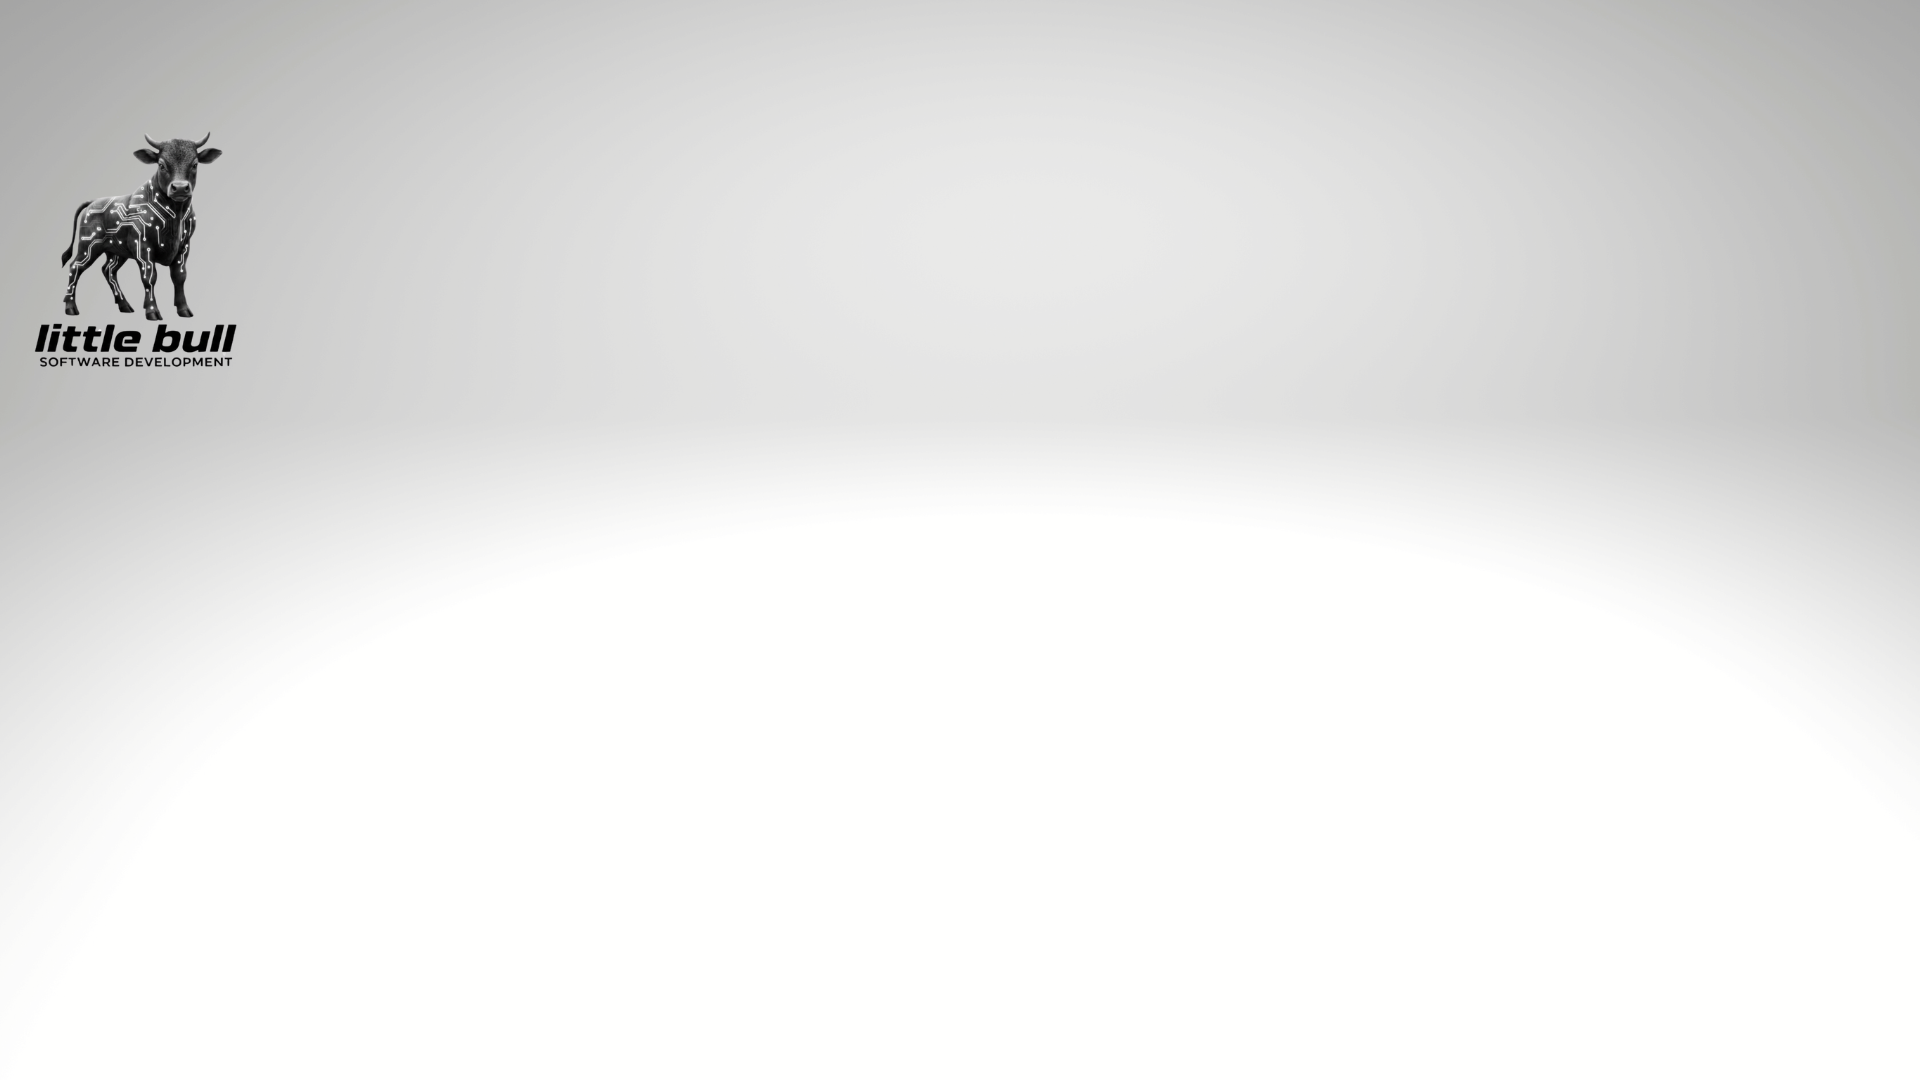
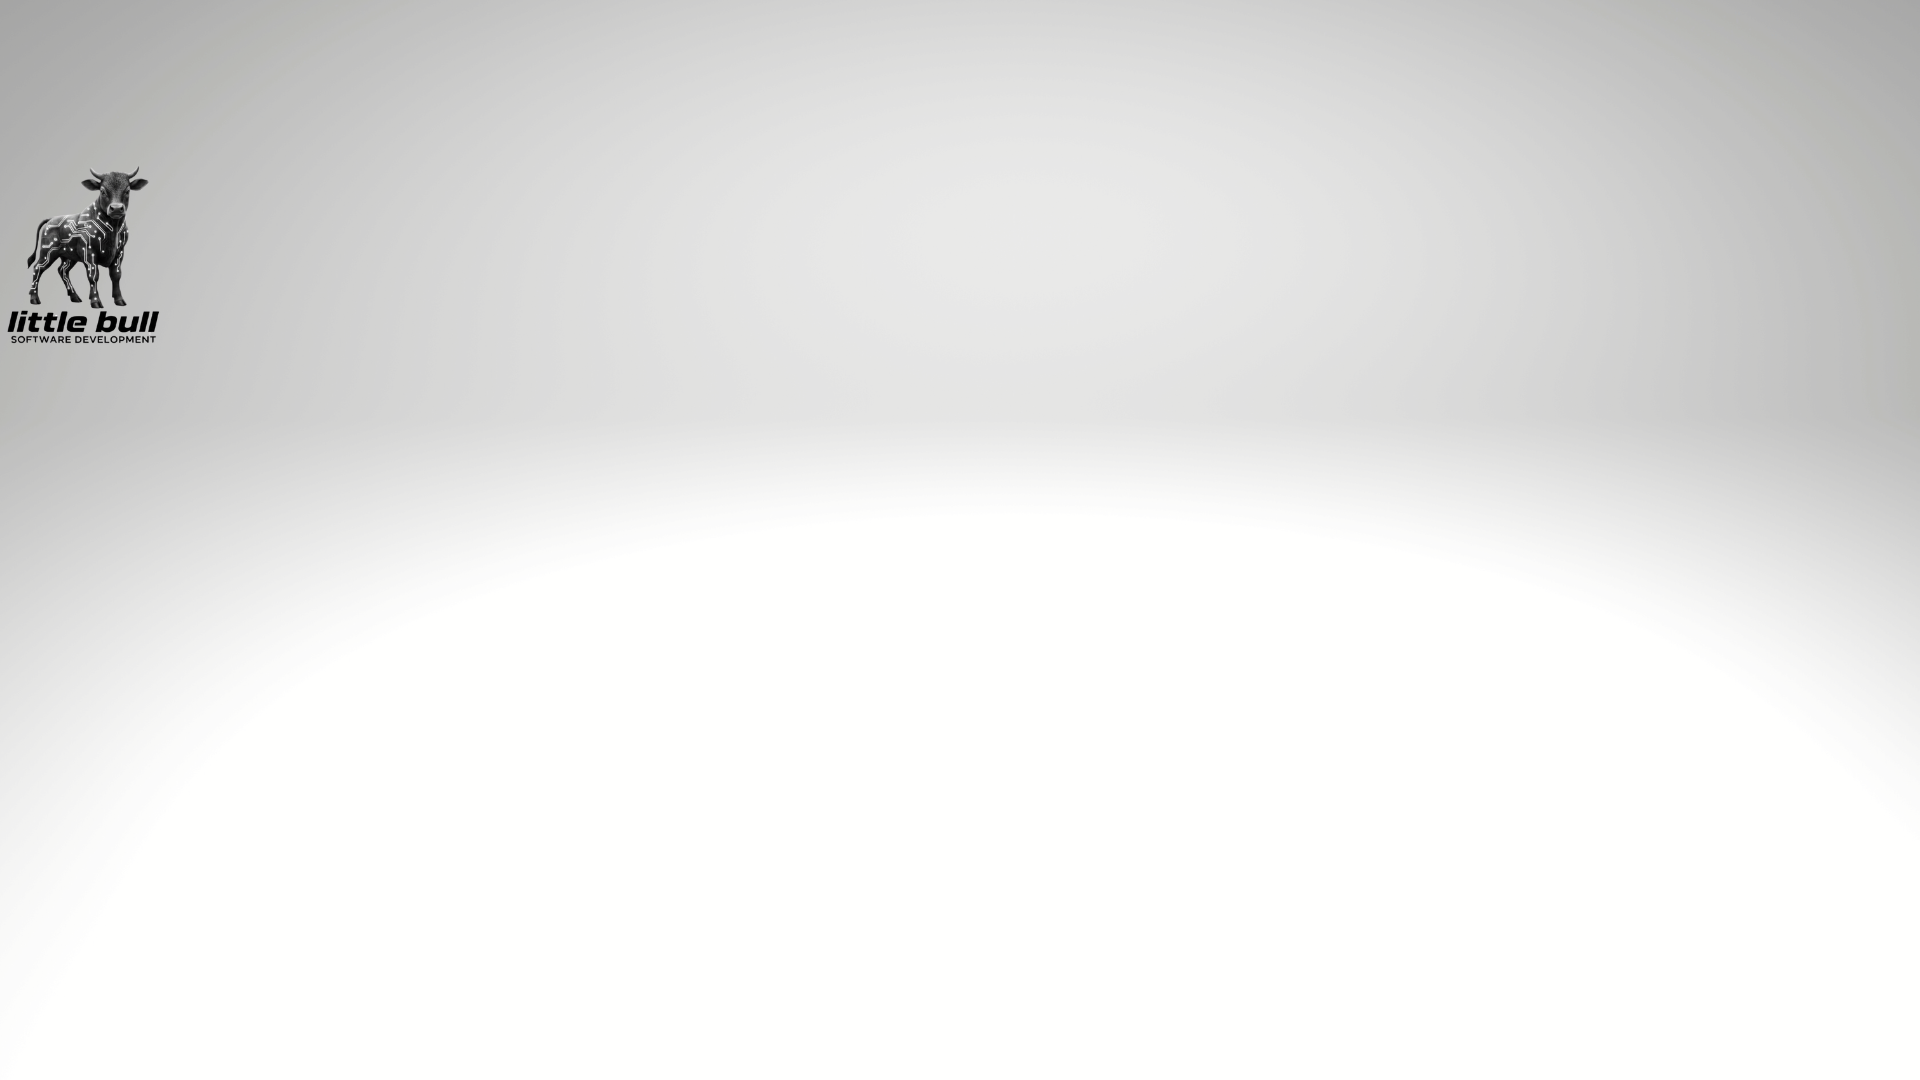
alterando imagem de background

Changed region(s): [[0.0, 0.1222, 0.125, 0.3361]]

diff --git a/contato.html b/contato.html
@@ -16,6 +16,9 @@
             background-repeat: no-repeat;
             background-position: center;
             background-size: cover; /* imagem cobre o conteúdo */
+            background-attachment: fixed;
+            min-height: 100vh;
+            background-color: #f2f2f2;
         }
 
         /* Header / menu superior */
